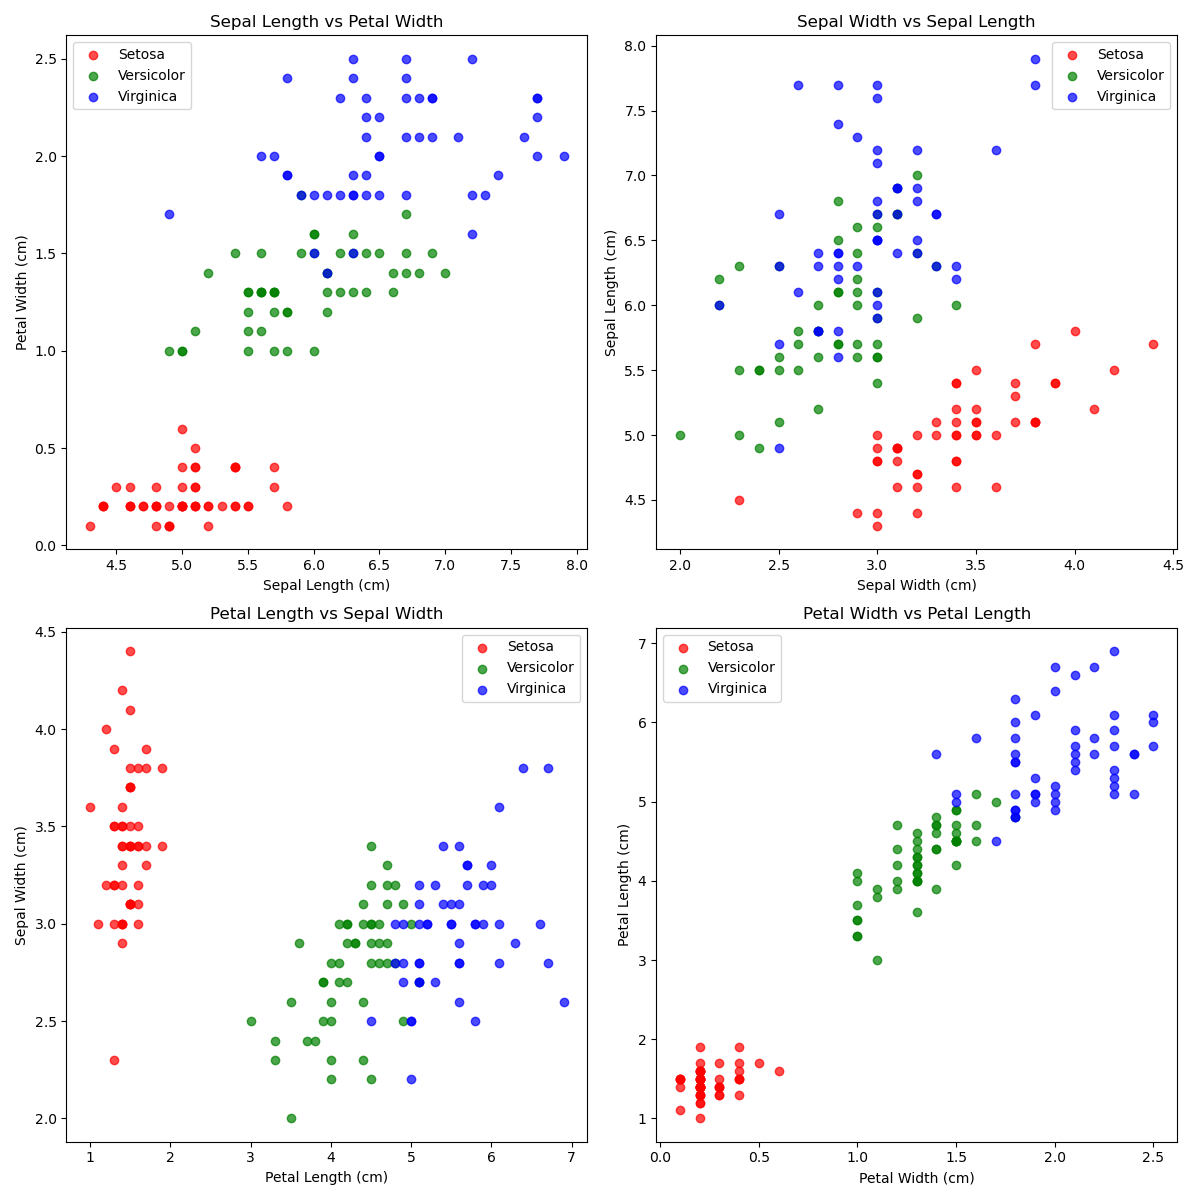
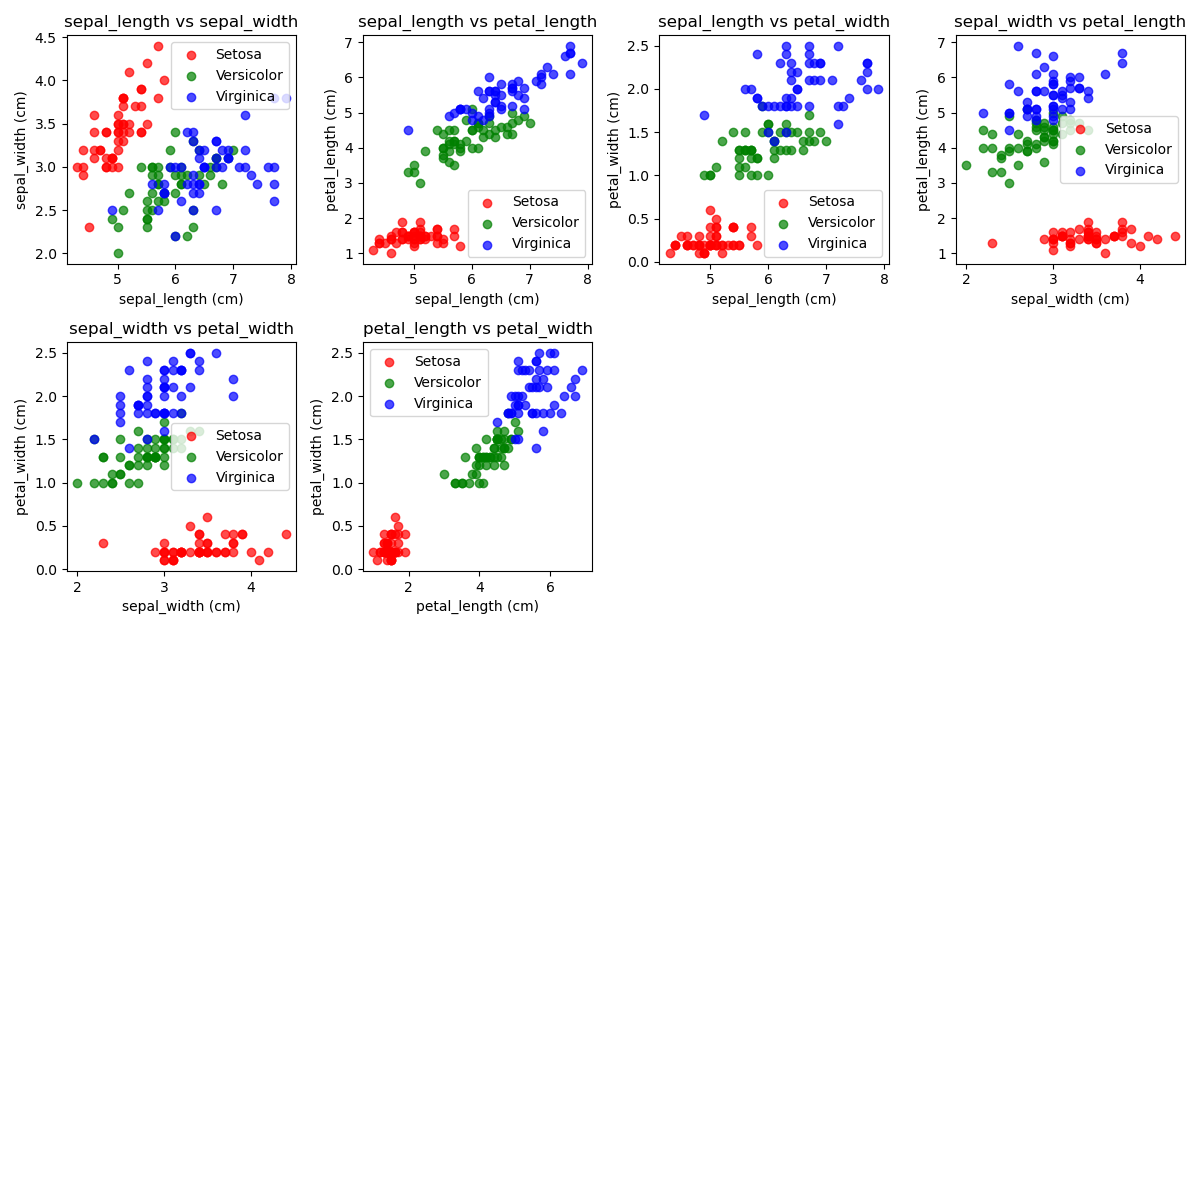
added plot index to the scater plots

diff --git a/analysis.py b/analysis.py
@@ -1,5 +1,5 @@
 # analysis.py
-# This program is the central analysis file for the Programming and Scripting Module.
+# This program is the central analysis file for the Programming and Scripting Module main project.
 # It imports the Iris Data and perfoms the analysis on it.
 # Author: Stephen Kerr
 
@@ -30,8 +30,8 @@ def generate_descriptive_statistics(data):
     data (DataFrame): The input data to analyze.
     
     Returns:
-    DataFrame: A DataFrame containing the descriptive statistics.
-    creates a text file with the descriptive statistics.
+        DataFrame: A DataFrame containing the descriptive statistics.
+        Creates a text file with the descriptive statistics.
     """
     # Defining the descriptive statistics globally across all species
     # Calculate the descriptive statistics for the iris data
@@ -55,20 +55,59 @@ def generate_descriptive_statistics(data):
         f.write('\n\n')
         # Write the descriptive statistics for each species to the file
         f.write('===Descriptive Statistics by Species===\n')
-        f.write(tabulate(stats_by_species.stack(future_stack=True), headers='keys', tablefmt='grid'))
+        f.write(tabulate(stats_by_species.stack(), headers='keys', tablefmt='grid'))
     
     return global_descriptive_stats, stats_by_species
 
 
+def prepare_data(data):
+    """
+    Prepares the data for the analysis plots. 
+
+    Parameters:
+        data (DataFrame): The input data to prepare.
+    
+    Returns:
+        variables (list): A list of the variables to plot.
+        variables_titles (list): A list of titles for the histograms.
+        species (list): A list of unique species in the data.
+        format_species (list): A list of formatted species names for the legend.
+        colors (list): A list of colors for each species.
+        labels (list): A list of labels for each species.
+    """
+
+    # Create a list of the variables to plot
+    variables = data.columns.drop('species') # ['sepal_length', 'sepal_width', 'petal_length', 'petal_width']
+
+    # Create a list of titles for the histograms
+    variables_titles = [s.replace('_', ' ').title() for s in variables] # ['Sepal Length', 'Sepal Width', 'Petal Length', 'Petal Width']
+
+    # Get the unique species from the data
+    species = data['species'].unique() # ['Iris-setosa', 'Iris-versicolor', 'Iris-virginica']
+
+    # Format the species names for the legend
+    format_species = [s.replace('Iris-', '').capitalize() for s in species] # ['Setosa', 'Versicolor', 'Virginica']
+
+    # Define colors for each species
+    colors = ['red', 'green', 'blue'] # Colors for each species
+    labels = format_species # Labels for each species
+
+    return variables, variables_titles, species, format_species, colors, labels
 
 
 
-def plot_histograms(data):
+def plot_histograms(data, variables, variables_titles, species, format_species, colors, labels):
     '''
-    Creates the Histograms for each variable with the different speices colour coded to a .png file
+    Creates the Histograms for each variable with the different species colour coded to a .png file
     
     Parameters: 
         data (DataFrame): The input data to plot in histograms.
+        variables (list): A list of the variables to plot.
+        variables_titles (list): A list of titles for the histograms.
+        species (list): A list of unique species in the data.
+        format_species (list): A list of formatted species names for the legend.
+        colors (list): A list of colors for each species.
+        labels (list): A list of labels for each species.
     
     Returns:
         None: The function saves the histograms as a .png file.
@@ -78,24 +117,12 @@ def plot_histograms(data):
     Reference: https://matplotlib.org/stable/api/_as_gen/matplotlib.pyplot.show.html
     '''
 
-    # Create a list of the variables to plot
-    variables = data.columns.drop('species') # ['sepal_length', 'sepal_width', 'petal_length', 'petal_width']
-
-    # Create a list of titles for the histograms
-    variables_titles = [s.replace('_', ' ').title() for s in variables] # ['Sepal Length', 'Sepal Width', 'Petal Length', 'Petal Width']
-
-    # Get the unique species from the data
-    species = data['species'].unique() # ['Iris-setosa', 'Iris-versicolor', 'Iris-virginica']
-
-    # Format the species names for the legend
-    format_species = [s.replace('Iris-', '').capitalize() for s in species] # ['Setosa', 'Versicolor', 'Virginica']
-
-    # Define colors for each species
-    colors = ['red', 'green', 'blue'] # Colors for each species
-    labels = format_species # Labels for each species
 
     # Set the figure size
     plt.figure(figsize=(12, 12))
+
+    # plot index
+    plot_index = 1
 
     # Loop through each variable and create a subplot
     for i, variable in enumerate(variables):
@@ -104,7 +131,8 @@ def plot_histograms(data):
             # Filter the data for the current species
             species_data = data[data['species'] == specie][variable]
             # Plot the histogram for the current species
-            plt.hist(species_data, bins=10, alpha=0.7, color=colors[j], label=labels[j], edgecolor='black')
+            plt.hist(species_data, bins=10, alpha=0.7, 
+                     color=colors[j], label=labels[j], edgecolor='black')
         
         # Add title, labels, and legend
         plt.title(f'Frequency of {variables_titles[i]} Across Species')
@@ -112,14 +140,14 @@ def plot_histograms(data):
         plt.ylabel('Frequency')
         plt.legend()
 
-        # Adjust layout to prevent overlap
-        plt.tight_layout()
+    # Adjust layout to prevent overlap
+    plt.tight_layout()
 
-        # Save the plot as a PNG file
-        plt.savefig('iris_histograms.png')
+    # Save the plot as a PNG file
+    plt.savefig('iris_histograms.png')
 
 
-def plot_scatter(data):
+def plot_scatter(data, variables, variables_titles, species, format_species, colors, labels):
     '''
     # Scatter Plot of each pair of variables
     # Reference: https://pandas.pydata.org/pandas-docs/stable/reference/api/pandas.DataFrame.plot.scatter.html
@@ -128,37 +156,28 @@ def plot_scatter(data):
     # set the figure size
     plt.figure(figsize=(12, 12))
 
-    # Create a list of the variables to plot
-    variables = data.columns.drop('species') # ['sepal_length', 'sepal_width', 'petal_length', 'petal_width']
-
-    # Create a list of titles for the histograms
-    variables_titles = [s.replace('_', ' ').title() for s in variables] # ['Sepal Length', 'Sepal Width', 'Petal Length', 'Petal Width']
-
-    # Get the unique species from the data
-    species = data['species'].unique() # ['Iris-setosa', 'Iris-versicolor', 'Iris-virginica']
-
-    # Format the species names for the legend
-    format_species = [s.replace('Iris-', '').capitalize() for s in species] # ['Setosa', 'Versicolor', 'Virginica']
-
-    # Define colors for each species
-    colors = ['red', 'green', 'blue'] # Colors for each species
-    labels = format_species # Labels for each species
+    # plot index 
+    plot_index = 1
 
     # Loop through each variable and create a subplot
-    for i, variable in enumerate(variables):
-        plt.subplot(2, 2, i + 1)  # Create a 2x2 grid of subplots
-        for j, specie in enumerate(species):
-            # Filter the data for the current species
-            species_data = data[data['species'] == specie]
-            # Plot the scatter plot for the current species
-            plt.scatter(species_data[variable], species_data[variables[i - 1]], 
-                        label=labels[j], color=colors[j], alpha=0.7)
-        
-        # Add title, labels, and legend
-        plt.title(f'{variables_titles[i]} vs {variables_titles[i - 1]}')
-        plt.xlabel(f'{variables_titles[i]} (cm)')
-        plt.ylabel(f'{variables_titles[i - 1]} (cm)')
-        plt.legend()
+    for i, variable_1 in enumerate(variables):
+        for j, variable_2 in enumerate(variables):
+            if i >= j:
+                continue
+            plt.subplot(len(variables), len(variables), plot_index) # Create a grid of subplots
+            for k, specie in enumerate(species):
+                # Filter the data for the current species
+                species_data = data[data['species'] == specie]
+                # Plot the scatter plot for the current species
+                plt.scatter(species_data[variable_1], species_data[variable_2], 
+                            label=labels[k], color=colors[k], alpha=0.7)
+            
+            # Add title, labels, and legend
+            plt.title(f'{variable_1} vs {variable_2}')
+            plt.xlabel(f'{variable_1} (cm)')
+            plt.ylabel(f'{variable_2} (cm)')
+            plt.legend()
+            plot_index += 1
 
     # Adjust layout to prevent overlap
     plt.tight_layout()
@@ -188,22 +207,30 @@ def main():
     # generate descriptive statistics
     global_iris_descriptive_stats, iris_descriptive_stats_by_species = generate_descriptive_statistics(iris_data)
 
+    # prepare the data for plotting
+    variables, variables_titles, species, format_species, colors, labels = prepare_data(iris_data)
+
     # print the descriptive statistics to the console
     print('===Global Descriptive Statistics===\n')
     print(tabulate(global_iris_descriptive_stats, headers='keys', tablefmt='grid'))
     print('\n\n')
     print('===Descriptive Statistics by Species===\n')
-    print(tabulate(iris_descriptive_stats_by_species.stack(future_stack=True), headers='keys', tablefmt='grid'))
+    print(tabulate(iris_descriptive_stats_by_species.stack(), headers='keys', tablefmt='grid'))
 
     # plot histograms
-    plot_histograms(iris_data)
+    plot_histograms(iris_data, variables, variables_titles, species, format_species, colors, labels)
     
     # plot scatter plots
-    plot_scatter(iris_data)
+    plot_scatter(iris_data, variables, variables_titles, species, format_species, colors, labels)
 
     # show the plots
     plt.show()
 
+    # print a message to indicate that the analysis is complete
+    print("Analysis complete: \n" 
+            "The histograms are saved to the iris_histograms.png\n"
+            "The scatter plots are saved to the iris_scatter.png\n"
+            "The descriptive statistics are saved to the iris_descriptive_stats.txt\n")
 
 
  
